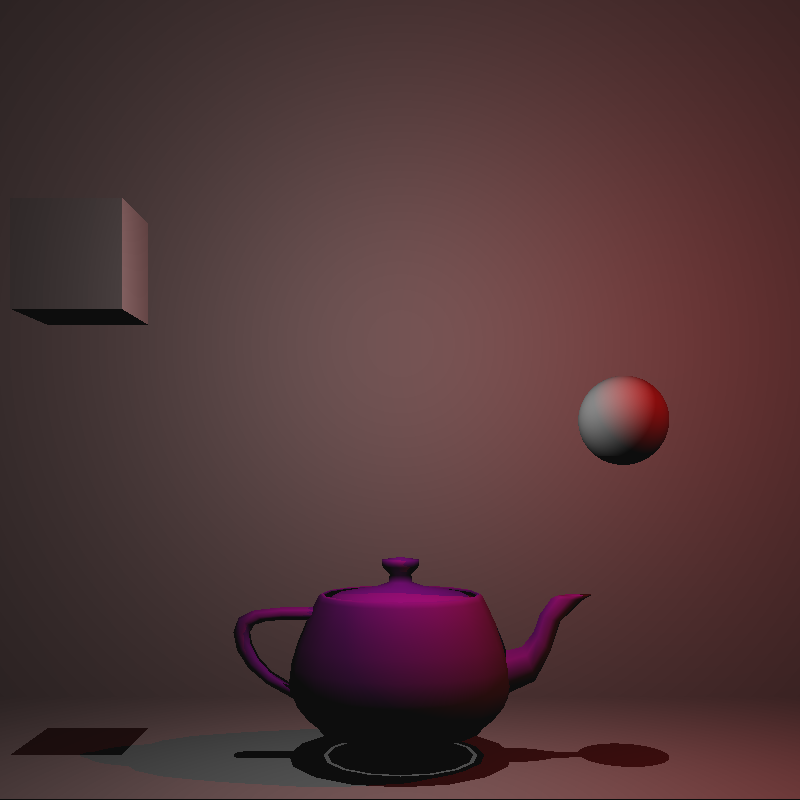
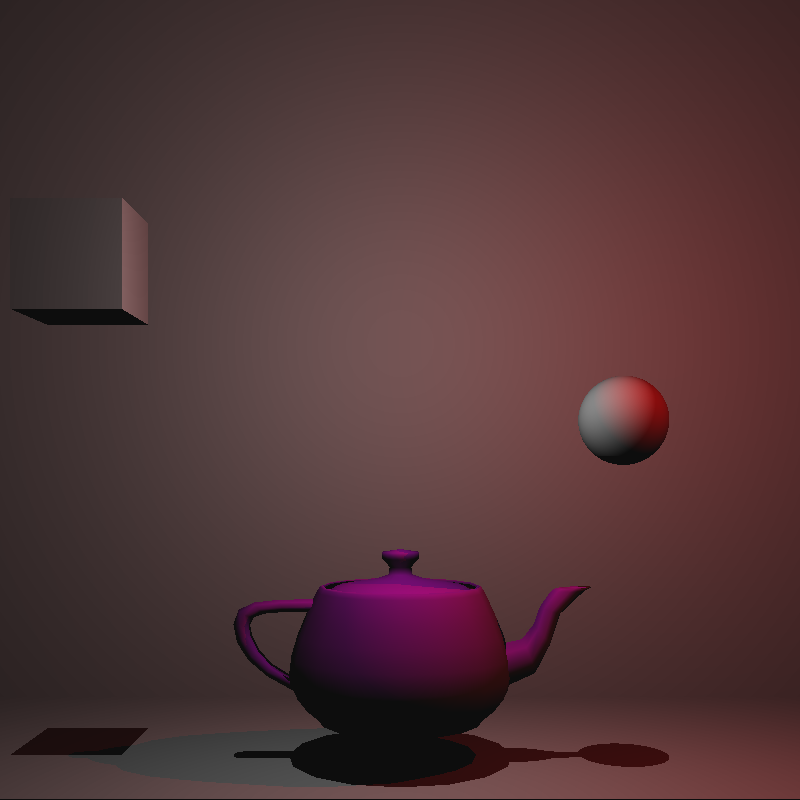
version0.8

diff --git a/Raytracerv0.8/src/edu/up/isgc/raytracer/Raytracer.java b/Raytracerv0.8/src/edu/up/isgc/raytracer/Raytracer.java
@@ -43,7 +43,7 @@ public class Raytracer {
         //scene02.addObject(new Sphere(new Vector3D(0.35f, 1f, 4.5f), 0.3f, Color.BLUE));
         scene02.addObject(new Sphere(new Vector3D(2f, 1f, 1.5f), 0.4f, Color.WHITE));
         scene02.addObject(OBJReader.GetModel3D("Cube.obj", new Vector3D(-3f, 2f, 2f), Color.WHITE));
-        scene02.addObject(OBJReader.GetModel3D("SmallTeapot.obj", new Vector3D(0f, -1.8f, 1.5f), Color.MAGENTA));
+        scene02.addObject(OBJReader.GetModel3D("SmallTeapot.obj", new Vector3D(0f, -1.73f, 1.5f), Color.MAGENTA));
 
         //scene02.addObject(OBJReader.GetModel3D("SmallTeapot.obj", new Vector3D(-1.5f, 1.5f, 1.5f), Color.GREEN));
         //scene02.addObject(OBJReader.GetModel3D("SmallTeapot.obj", new Vector3D(1.5f, 1.5f, 1.5f), Color.BLUE));
@@ -131,16 +131,26 @@ public class Raytracer {
 
                             Color diffuse = new Color(clamp(objColors[0], 0, 1), clamp(objColors[1], 0, 1), clamp(objColors[2], 0, 1));
                             pixelColor = addColor(pixelColor, diffuse);
+
+                            Vector3D halfAngle = Vector3D.scalarMultiplication((Vector3D.substract(scene.getCamera().getPosition(), light.getPosition())), 1/Vector3D.magnitude(Vector3D.substract(scene.getCamera().getPosition(), light.getPosition())));
+                            //aqui hay error
+                            //double specular = (Math.pow(Vector3D.dotProduct(otherIntersection.getNormal(), halfAngle),2))*pixelColor.getRGB();
+                            //Color sp = new Color((int) specular);
+                            //pixelColor  = addColor(pixelColor, sp);
                         }
-                        else{
+                        /*else{
                             shadow = true;
-                        }
+                        }*/
+
+
+
 
                     }
                 }
 
                 Color ambientColor = new Color(0.05f, 0.05f, 0.05f);
                 pixelColor = addColor(pixelColor, ambientColor);
+
 
                 /*if(shadow){
                     pixelColor = Color.BLUE;
